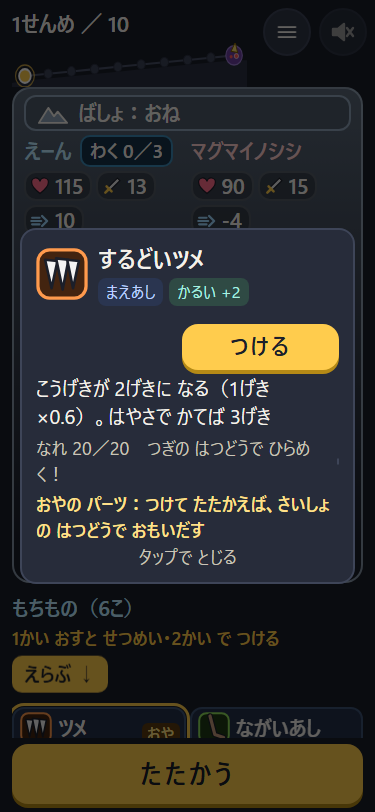
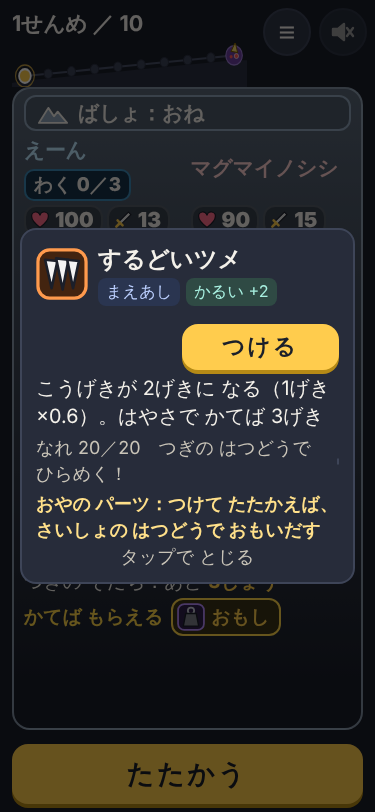
next：画面が 急に 動く を 直す（決定 17-a）：倍率を 窓の 大きさだけで 決めて どの画面も 同じ（1920×910 は 1.25）・同じ画面の 中では 変えない・スマホの バトル前の 行を とっておく。check.js に「急に 動いた」・tools/kotei.js
Claude-Session: https://claude.ai/code/session_01MmzYoSEzkD1PgFfWTrviwe

diff --git a/next/index.html b/next/index.html
@@ -6,10 +6,11 @@
 <meta name="theme-color" content="#1b1f2a">
 <title>でこもん</title>
 <script>
-// 広い窓：画面ごとに「中が スクロールしない いちばん大きい 倍率」で 見せる（版8 しさく 2026-10-27）。
-// - いちばん大きい倍率 zMax = min(幅/1366, 高さ/650)（1366×650 の 見た目を 窓いっぱいに）。1 以下・幅 900 未満（スマホ）・zoom の ない ブラウザは 1（いままでどおり）。
-// - 画面が 変わるたび（show）に zMax から 0.05 ずつ 下げて、中の箱（一覧・列）と ページが スクロールしない 倍率を 選ぶ。1 より 小さくは しない（文字は 1366×650 より 小さくならない）。
-//   例：1920×910 の タイトル・結果は 1.40、パーツを 選ぶ画面は 1.00（中の大きさ 1920×910 で 全部を 並べる）。
+// 広い窓：どの画面も 同じ 倍率で 見せる（2026-10-28 決定 17-a：画面が 急に 動く を 直す）。
+// - いちばん大きい倍率 zMax = min(幅/1366, 高さ/650)。1 以下・幅 900 未満（スマホ）・zoom の ない ブラウザは 1（いままでどおり）。
+// - そろえる倍率 zU = zMax × 0.9 を 0.05 きざみで 切り下げ（1920×910 は 1.25。もちもの 16こ で どの 説明を 出しても 入る 大きさ）。窓の 大きさで 決まり、画面が 変わっても 同じ。
+// - 同じ 画面に いる あいだは 倍率を 変えない（説明の 欄・手札が ふえても 計算しなおさない）。変えるのは 窓の 大きさが 変わったときだけ。
+// - 画面に 入ったとき zU で 入らなければ、そのときだけ 0.05 ずつ 下げる（検査では「倍率が そろわない」と 数える）。1 より 小さくは しない。
 // - zoom の中では vh も 倍になるので --vh で 打ち消す。大きさで 変わる 並び（幅 1700 以上・高さ 760 以下・広い窓）は
 //   窓の大きさではなく 倍率で割った「中の大きさ」で決める（html の class：ew1700・eshort・ewide）。
 (function () {
@@ -17,8 +18,10 @@
   var canZoom = !!(window.CSS && CSS.supports && CSS.supports('zoom', '2')); // zoom の ない ブラウザでは 大きくしない（いままでどおり）
   var BW = 1366, BH = 650;
   var zb = /[?&]zb=(\d+)x(\d+)/.exec(location.search); if (zb) { BW = +zb[1]; BH = +zb[2]; } // 試し用（tools/screens.js --zb）
+  var fitting = false; // 画面に 入った・窓が 変わった ときの 合わせ（それ以外で 倍率が 変わったら 検査で「急に 動いた」）
   function apply(z, noWide) {
     var W = window.innerWidth, H = window.innerHeight;
+    if (!fitting && window.__zoom && window.__zoom !== z) window.__zoomJumps = (window.__zoomJumps || 0) + 1;
     window.__zoom = z;
     de.style.zoom = z === 1 ? '' : String(z);
     if (z === 1) de.style.removeProperty('--vh'); else de.style.setProperty('--vh', (H / z / 100) + 'px');
@@ -39,17 +42,27 @@
     }
     return '';
   }
-  // onlyShrink：画面の中で 中身が ふえたとき（下げるだけ。上げると 文字が 急に 大きくなるので しない）
-  function fit(onlyShrink) {
+  var ZU_K = 0.9;
+  function zUniform() {
     var W = window.innerWidth, H = window.innerHeight;
     var zMax = (canZoom && W >= 900) ? Math.min(W / BW, H / BH) : 1;
-    if (!(zMax > 1.02)) zMax = 1;
-    var z = onlyShrink ? Math.min(window.__zoom || zMax, zMax) : zMax;
+    if (!(zMax > 1.02)) return 1;
+    return Math.max(1, Math.floor(zMax * ZU_K * 20 + 1e-6) / 20);
+  }
+  // inScreen：同じ 画面の 中で 中身が かわった（倍率は 変えない。17-a）。false：画面に 入った・窓の 大きさが 変わった
+  function fit(inScreen) {
+    if (inScreen && window.__zoom) return;
+    fitting = !inScreen;
+    var z = zUniform();
+    window.__zoomU = z;
     apply(z);
     while (z > 1 && document.body && overflows()) { z = Math.max(1, Math.round((z - 0.05) * 100) / 100); apply(z); }
+    // 倍率 1 まで 下げても 入らない 長い 一覧（図鑑・殿堂）は 下げても 意味が ないので、そろえる 倍率に もどす（中で スクロール）
+    if (z !== window.__zoomU && document.body && overflows()) { z = window.__zoomU; apply(z); }
     // 倍率 1 でも 入らないとき（中身が とても 多い・zoom の ない ブラウザ）は 広い並びを やめて、いままでの 2列（中で スクロールできる）に もどす
     var why = document.body && de.classList.contains('ewide') && overflows();
     if (why) { apply(z, true); if (/[?&]auto=1/.test(location.search)) console.warn('[でこもん 検査] 広い並びを やめた：' + why); }
+    fitting = false;
   }
   window.__fitZoom = fit;
   fit();
@@ -982,6 +995,9 @@ html.eshort .shu-info .if-head, html.eshort .shu-info .sub { display: none; }
 .kv-line b { color: var(--accent); }
 .kv-line:empty { display: none; }
 .kv-note { color: var(--accent); font-weight: 700; grid-column: 1 / -1; }
+/* 決定 17-a：スマホは つけた パーツの 文が ここに 出る（1〜3行）。行の 数で 下の もちものが 上下に 動かないように 3行ぶん とっておく */
+@media (max-width: 899px) { #pre .kv-note, #pre .kv-note:empty { display: block; min-height: calc(4.35em + 2px); } }
+@media (max-width: 899px) { #pre #firstTxt { min-height: calc(2.9em + 1px); } } /* 「さきに うごく」は つけた パーツで 1行／2行 に かわる */
 .kv-reward { grid-column: 1 / -1; }
 .kv-handcol { display: flex; flex-direction: column; gap: 5px; min-height: 0; }
 .kv-handhead { display: flex; align-items: baseline; flex-wrap: wrap; gap: 2px 10px; }
@@ -1679,14 +1695,15 @@ html.eshort .shu-info .if-head, html.eshort .shu-info .sub { display: none; }
     document.body.classList.toggle('battle-on', id === 'battle'); // とどめの揺れ（transform）で ページが 数px 伸びないように
     $('menuPop').classList.remove('on'); $('bossPop').classList.remove('on'); $('partPop').classList.remove('on');
     if (id === 'start' || id === 'boss' || id === 'fork' || id === 'summit' || id === 'pre' || id === 'win' || id === 'grow') saveRun(id);
-    window.__fitZoom(false); // 広い窓：この画面が スクロールしない 倍率に
+    window.__fitZoom(false); // 広い窓：そろえる 倍率（入らなければ この画面だけ 下げる）。この画面に いる あいだは 変えない
+    if (OPT.auto && window.__zoom !== window.__zoomU) { G.auto.zoomOdd[id] = (G.auto.zoomOdd[id] || 0) + 1; console.warn('[でこもん 検査] 倍率が そろわない：' + id + '：' + window.__zoom + '（そろえる 倍率 ' + window.__zoomU + '）'); }
   }
 
   // ---------- ゲームの状態 ----------
   var G = { screen: 'title', firstRun: true, rng: null, run: null, owned: [], attached: [], lastParts: null, battle: 0, wins: 0, lv2: [], pity: 0, sparked: [], history: [], lastSummary: null, picked: null,
     egg: null, gen: 1, color: null, // 版8：egg = { parentId, parentName, part }（たまごから 始めたとき）。gen：○だいめ。color：体の色
     nare: {}, grow: S.emptyGrow(), growHist: [], acc: { received: 0, landed: 0, first: 0 }, rewards: [], forkFor: -1, pendingGrow: null, backTo: 'title',
-    auto: { runs: 0, clears: 0, battles: 0, mismatches: 0, wins: 0, synergies: {}, sparks: 0, sparkNare: 0, sparkParent: 0, eggRuns: 0, grows: { tough: 0, strong: 0, quick: 0 }, lv2Used: {}, overlaps: 0, seeThrough: 0, hardB: 0, hardW: 0, bossB: 0, bossW: 0, picked: 0, nareR: 0, pageScroll: {}, innerScroll: {}, screens: {}, doubleFlash: 0, species: {}, waza: {} }, brightChanges: 0 };
+    auto: { runs: 0, clears: 0, battles: 0, mismatches: 0, wins: 0, synergies: {}, sparks: 0, sparkNare: 0, sparkParent: 0, eggRuns: 0, grows: { tough: 0, strong: 0, quick: 0 }, lv2Used: {}, overlaps: 0, seeThrough: 0, hardB: 0, hardW: 0, bossB: 0, bossW: 0, picked: 0, nareR: 0, pageScroll: {}, innerScroll: {}, screens: {}, doubleFlash: 0, species: {}, waza: {}, jumps: {}, zoomOdd: {} }, brightChanges: 0 };
   var seed = OPT.seed ? parseInt(OPT.seed, 10) : (Date.now() ^ (Math.random() * 0xffffffff)) >>> 0;
   G.rng = S.makeRng(seed);
 
@@ -3064,7 +3081,36 @@ html.eshort .shu-info .if-head, html.eshort .shu-info .sub { display: none; }
     }
     A.zooms = A.zooms || {}; A.zooms[sc] = A.zooms[sc] || {}; var zk = (window.__zoom || 1).toFixed(2); A.zooms[sc][zk] = (A.zooms[sc][zk] || 0) + 1; // 画面ごとの 倍率（広い窓）
   }
-  if (OPT.auto) setInterval(function () { try { checkOverlap(); checkScroll(); } catch (e) { console.error('[でこもん 検査] ' + e.message); } }, 100);
+  // 決定 17-a：同じ 画面の 中で 大きさ・位置が 急に 変わった 回数（倍率・並びの class・大きな 箱の 位置と 大きさ）。0 が 合格
+  var JUMP_SEL = '.screen.on .kv-stage, .screen.on .kv-handcol, .screen.on .kv-side, .screen.on .dr-door, .screen.on .pcbody, .screen.on h2, #battle.on #arena';
+  var jumpPrev = null;
+  function checkJump() {
+    var sc = G.screen, A = G.auto, de = document.documentElement;
+    var cur = { sc: sc, z: (window.__zoom || 1).toFixed(2), cls: ['ew1700', 'eshort', 'ewide'].filter(function (c) { return de.classList.contains(c); }).join(' '), boxes: [] };
+    var bs = document.querySelectorAll(JUMP_SEL);
+    for (var i = 0; i < bs.length; i++) { var b = bs[i]; if (!b.offsetParent && b.id !== 'arena') continue; cur.boxes.push([b.id || b.className.split(' ')[0], b.offsetLeft, b.offsetTop, b.offsetWidth]); }
+    // くらべる 相手は その画面に 入って 最初の 様子（少しずつ 動いても 合わせて 数える）。画面が 変わったら 取りなおす
+    var p = jumpPrev; if (!p || p.sc !== sc) jumpPrev = cur;
+    var zj = window.__zoomJumps || 0; window.__zoomJumps = 0;
+    var why = zj ? '倍率を 画面の 中で 計算しなおした ' + zj + '回' : '';
+    if (!why && (!p || p.sc !== sc || $('menuPop').classList.contains('on'))) return;
+    if (why) { /* 上で 決まった */ }
+    else if (p.z !== cur.z) why = '倍率 ' + p.z + '→' + cur.z;
+    else if (p.cls !== cur.cls) why = '並び ' + (p.cls || '-') + '→' + (cur.cls || '-');
+    else if (p.boxes.length === cur.boxes.length) {
+      for (var k = 0; k < cur.boxes.length && !why; k++) {
+        var a = p.boxes[k], c = cur.boxes[k];
+        if (a[0] !== c[0]) break;
+        if (Math.abs(a[1] - c[1]) > 24 || Math.abs(a[2] - c[2]) > 24 || Math.abs(a[3] - c[3]) > 24) why = c[0] + ' ' + a.slice(1).join(',') + '→' + c.slice(1).join(',');
+      }
+    }
+    if (why) {
+      jumpPrev = cur; // 1回 動いたら そこから また くらべる（同じ ずれを 何度も 数えない）
+      A.jumps = A.jumps || {}; if (!A.jumps[sc]) console.warn('[でこもん 検査] 画面が 急に 動いた：' + sc + '：' + why);
+      A.jumps[sc] = (A.jumps[sc] || 0) + 1; A.jumpEx = A.jumpEx || {}; A.jumpEx[sc] = why;
+    }
+  }
+  if (OPT.auto) setInterval(function () { try { checkOverlap(); checkScroll(); checkJump(); } catch (e) { console.error('[でこもん 検査] ' + e.message); } }, 100);
 
   function hitText(ev) {
     var labels = ev.parts.filter(function (p) { return p !== 'weight' || ev.parts.length === 1; }).map(function (p) { return S.PART_BY_ID[p].short; });

diff --git a/next/tools/kotei.js b/next/tools/kotei.js
@@ -1,0 +1,111 @@
+// 決定 17-a の 確かめ：「画面が 急に 動く」が 起きないか（実際の マウス・クリックで）。
+// 使い方：node serve.js 8799 を 動かしてから node tools/kotei.js [port] [大きさ,…]（既定 1920x910,1366x650。PC 用：スマホは 文が 上に 出るので 使わない）
+// やること：
+//  1. どの画面も 同じ 倍率か（タイトル・種類を 選ぶ・始め・ぬし・わかれみち・バトル前・勝ち・そだち・ちょうじょう・クリア・負け・図鑑・殿堂）。
+//  2. バトル前（もちもの 16こ・Lv2 8）で、もちものに マウスを 合わせる・クリックで つける／はずす・相手の 札に 合わせる を 30回 して、
+//     そのたびに 倍率と 大きな 箱（体の 台・手札の 列・相手の 欄）の 位置と 大きさが 変わらないか（24px より 大きい ずれ＝急に 動いた）。
+//  3. わかれみち（もらえるものに 合わせる）も 同じ。
+// 合格：1 で 倍率が 1つ、2・3 で 急に 動いた 0。終わったら ブラウザを 閉じる。
+'use strict';
+const { chromium } = require('playwright');
+const PORT = process.argv[2] || '8799';
+const SIZES = (process.argv[3] || '1920x910,1366x650').split(',').map(s => s.split('x').map(Number));
+
+const ANCHORS = '.screen.on .kv-stage, .screen.on .kv-handcol, .screen.on .kv-side, .screen.on .dr-door, .screen.on h2';
+function snapJs(sel) {
+  const bs = Array.from(document.querySelectorAll(sel)).filter(b => b.offsetParent);
+  return { z: window.__zoom || 1, cls: ['ew1700', 'eshort', 'ewide'].filter(c => document.documentElement.classList.contains(c)).join(' '), boxes: bs.map(b => [b.id || b.className.split(' ')[0], b.offsetLeft, b.offsetTop, b.offsetWidth, b.offsetHeight]) };
+}
+function diff(a, b) {
+  if (a.z !== b.z) return '倍率 ' + a.z + '→' + b.z;
+  if (a.cls !== b.cls) return '並び ' + a.cls + '→' + b.cls;
+  if (a.boxes.length !== b.boxes.length) return '箱の 数 ' + a.boxes.length + '→' + b.boxes.length;
+  for (let i = 0; i < a.boxes.length; i++) {
+    const x = a.boxes[i], y = b.boxes[i];
+    for (let k = 1; k <= 4; k++) if (Math.abs(x[k] - y[k]) > 24) return y[0] + ' ' + x.slice(1).join(',') + '→' + y.slice(1).join(',');
+  }
+  return '';
+}
+
+(async () => {
+  const b = await chromium.launch();
+  let fail = 0;
+  for (const [W, H] of SIZES) {
+    const ctx = await b.newContext({ viewport: { width: W, height: H } });
+    const page = await ctx.newPage(); const errs = []; page.on('pageerror', e => errs.push(e.message));
+    await page.goto('http://localhost:' + PORT + '/?mute=1&seed=7&reset=1');
+    // 1. 画面ごとの 倍率
+    const zs = await page.evaluate(() => {
+      const D = window.__dekomon, G = D.G, S = window.DekoSim, out = {};
+      const rec = n => { out[n] = window.__zoom || 1; };
+      rec('title');
+      D.dbg.openZukan(); rec('zukan'); D.dbg.zukanTab('syn'); rec('zukan(かみあい)');
+      D.dbg.openDendo(); rec('dendo');
+      D.dbg.startRun(); G.run.choices[0] = 0; G.rewards = [];
+      D.dbg.showStart(); rec('start');
+      D.dbg.showBossIntro(); rec('boss');
+      D.dbg.showFork(); rec('fork');
+      D.dbg.showPre(); rec('pre');
+      G.owned = S.PART_IDS.slice(); G.lv2 = ['horn', 'fang', 'claw', 'shell', 'tail', 'wing', 'spike', 'crush'];
+      D.dbg.showFork(); rec('fork(16こ)');
+      D.dbg.showPre(); rec('pre(16こ)');
+      const pth = S.pathOf(G.run, 0, 0), parts = G.owned.slice(0, 3);
+      const res = S.runBattle(parts, pth.enemy, 1, pth.field, { rng: S.makeRng(5), grow: G.grow, lv2: G.lv2, spark: { stage: 1, pity: 0, nare: G.nare } });
+      const e = S.enemyDefOf(pth.enemy), f = S.FIELD_BY_ID[pth.field];
+      G.history.push({ enemy: e, field: f, hard: false, parts: parts, win: true, hands: res.nHands, timeout: res.timeout, summary: res.summary, spark: res.spark });
+      G.lastSummary = { sum: res.summary, enemy: e, spark: res.spark }; G.lastParts = parts.slice(); G.wins = 1; G.battle = 1;
+      D.dbg.showWin(true); rec('win');
+      D.dbg.showOver(); rec('over');
+      G.battle = 0; G.wins = 0;
+      D.dbg.showGrow('strong', true); rec('grow');
+      D.dbg.showSummit(); rec('summit');
+      return { zs: out, zU: window.__zoomU };
+    });
+    const vals = Array.from(new Set(Object.values(zs.zs)));
+    console.log(`### ${W}x${H}：そろえる 倍率 ${zs.zU}`);
+    console.log('画面ごとの 倍率：' + Object.entries(zs.zs).map(([k, v]) => k + ' ' + v).join('、'));
+    const odd = Object.entries(zs.zs).filter(([, v]) => v !== zs.zU).map(([k, v]) => k + ' ' + v);
+    console.log('倍率が そろわない 画面：' + (odd.length ? odd.join('、') : 'なし') + '（倍率の 種類 ' + vals.length + '）');
+    if (W === 1920 && H === 910 && vals.length !== 1) fail++;
+    // 2. バトル前 16こ で 実際に 合わせる・押す
+    await page.evaluate(() => { const D = window.__dekomon; D.dbg.showPre(); });
+    await page.waitForTimeout(150);
+    let prev = await page.evaluate(snapJs, ANCHORS), jumps = [], acts = 0, inner = [];
+    const ids = await page.evaluate(() => Array.from(document.querySelectorAll('#plist .kv-card')).map(c => c.dataset.id));
+    const step = async (what, fn) => {
+      await fn(); await page.waitForTimeout(80); acts++;
+      const cur = await page.evaluate(snapJs, ANCHORS); const d = diff(prev, cur);
+      if (d) jumps.push(what + '：' + d); prev = cur;
+      if (W === 1920 && H === 910) { // 1920×910 は 中の スクロールも 0（決定 9）。説明の 欄を 出した ときも
+        const ov = await page.evaluate(() => Array.from(document.querySelectorAll(window.__SCROLL_BOXES)).filter(b => b.clientHeight > 0 && b.scrollHeight > b.clientHeight + 1).map(b => (b.id || b.className.split(' ')[0]) + ' ' + b.clientHeight + '/' + b.scrollHeight).join(','));
+        if (ov) inner.push(what + '：' + ov);
+      }
+    };
+    for (let i = 0; i < ids.length && acts < 24; i++) {
+      const sel = `#plist .kv-card[data-id="${ids[i]}"]`;
+      await step('合わせる ' + ids[i], () => page.hover(sel));
+      if (i % 3 === 0) await step('クリック ' + ids[i], () => page.click(sel));
+    }
+    for (const id of ids.slice(0, 6)) await step('はずす／つける ' + id, () => page.click(`#plist .kv-card[data-id="${id}"]`));
+    const chips = await page.$$('#eChips > *');
+    for (let i = 0; i < Math.min(chips.length, 4); i++) await step('相手の 札 ' + i, () => chips[i].hover());
+    await step('マウスを 外す', () => page.mouse.move(3, 3));
+    console.log(`バトル前：${acts}回 さわって、急に 動いた ${jumps.length}` + (jumps.length ? '：' + jumps.slice(0, 5).join(' ／ ') : ''));
+    if (jumps.length) fail++;
+    if (inner.length) { console.log('中の スクロール（1920×910）' + inner.length + '：' + inner.slice(0, 5).join(' ／ ')); fail++; }
+    // 3. わかれみち
+    await page.evaluate(() => window.__dekomon.dbg.showFork()); await page.waitForTimeout(150);
+    prev = await page.evaluate(snapJs, ANCHORS); jumps = []; acts = 0; inner = [];
+    const fchips = await page.$$('#forkPaths .kv-chip, #forkPaths .kv-st, #forkPaths .kv-rwb');
+    for (let i = 0; i < Math.min(fchips.length, 12); i++) await step('わかれみちの 札 ' + i, () => fchips[i].hover());
+    await step('マウスを 外す', () => page.mouse.move(3, 3));
+    console.log(`わかれみち：${acts}回 さわって、急に 動いた ${jumps.length}` + (jumps.length ? '：' + jumps.slice(0, 5).join(' ／ ') : ''));
+    if (jumps.length) fail++;
+    if (inner.length) { console.log('中の スクロール（1920×910）' + inner.length + '：' + inner.slice(0, 5).join(' ／ ')); fail++; }
+    if (errs.length) { console.log('エラー：' + errs.join(' ／ ')); fail++; }
+    console.log('');
+    await ctx.close();
+  }
+  await b.close();
+  console.log(fail ? '不合格' : '合格'); process.exitCode = fail ? 1 : 0;
+})();

diff --git a/next/tools/check.js b/next/tools/check.js
@@ -70,12 +70,12 @@ function fmtObj(o) { var ks = Object.keys(o || {}); return ks.length ? ks.map(fu
     await browser.close();
     sv.kill();
   }
-  console.log('| 画面 | 大きさ（窓の内側） | 周回 | 戦い | 10連勝 | たまご周回 | おやの ひらめき | ずれ | 重なり・はみ出し | 透け | 1手に2回の明るさ | ページがスクロールした画面 | 中でスクロールした画面（回数） |');
-  console.log('|---|---|---|---|---|---|---|---|---|---|---|---|---|');
+  console.log('| 画面 | 大きさ（窓の内側） | 周回 | 戦い | 10連勝 | たまご周回 | おやの ひらめき | ずれ | 重なり・はみ出し | 透け | 1手に2回の明るさ | ページがスクロールした画面 | 中でスクロールした画面（回数） | 同じ画面で急に動いた（回数） | 倍率がそろわない画面 |');
+  console.log('|---|---|---|---|---|---|---|---|---|---|---|---|---|---|---|');
   rows.forEach(function (r) {
     var A = r.a.auto;
     var kind = r.size.w >= 900 ? 'PC' : 'スマホ';
-    console.log('| ' + kind + ' ' + r.size.w + '×' + r.size.h + '（seed ' + r.seed + '〜） | ' + r.a.inner + ' | ' + A.runs + ' | ' + A.battles + ' | ' + A.clears + ' | ' + A.eggRuns + ' | ' + A.sparkParent + ' | ' + A.mismatches + ' | ' + A.overlaps + ' | ' + A.seeThrough + ' | ' + A.doubleFlash + ' | ' + fmtObj(A.pageScroll) + ' | ' + fmtObj(A.innerScroll) + ' |');
+    console.log('| ' + kind + ' ' + r.size.w + '×' + r.size.h + '（seed ' + r.seed + '〜） | ' + r.a.inner + ' | ' + A.runs + ' | ' + A.battles + ' | ' + A.clears + ' | ' + A.eggRuns + ' | ' + A.sparkParent + ' | ' + A.mismatches + ' | ' + A.overlaps + ' | ' + A.seeThrough + ' | ' + A.doubleFlash + ' | ' + fmtObj(A.pageScroll) + ' | ' + fmtObj(A.innerScroll) + ' | ' + fmtObj(A.jumps) + ' | ' + fmtObj(A.zoomOdd) + ' |');
   });
   console.log('');
   rows.forEach(function (r) {
@@ -101,6 +101,13 @@ function fmtObj(o) { var ks = Object.keys(o || {}); return ks.length ? ks.map(fu
     var key = r.size.w + 'x' + r.size.h; if (INNER0.indexOf(key) < 0) return;
     var n = Object.keys(r.a.auto.innerScroll).reduce(function (a, k) { return a + r.a.auto.innerScroll[k]; }, 0);
     console.log('判定 ' + key + '：中のスクロール ' + n + ' → ' + (n === 0 ? '合格' : '不合格（' + fmtObj(r.a.auto.innerScroll) + '）'));
+    if (n) fail++;
+  });
+  // 決定 17-a：同じ 画面の 中で 急に 動いた 回数は どの大きさも 0 が 合格
+  rows.forEach(function (r) {
+    var key = r.size.w + 'x' + r.size.h, J = r.a.auto.jumps || {};
+    var n = Object.keys(J).reduce(function (a, k) { return a + J[k]; }, 0);
+    console.log('判定 ' + key + '：同じ画面で 急に 動いた ' + n + ' → ' + (n === 0 ? '合格' : '不合格（' + fmtObj(J) + '。例：' + fmtObj(r.a.auto.jumpEx) + '）'));
     if (n) fail++;
   });
   if (fail) process.exitCode = 1;

diff --git a/next/REPORT.md b/next/REPORT.md
@@ -4,6 +4,12 @@ https://usouso.github.io/dekomon/next/ ／ 安定版の報告は いちばん上
 
 ## きょう変わったこと（前の20時から）
 
+- 広い画面（PC 1920×910 など）で、画面の 大きさが 急に 変わる・パーツに マウスを 合わせると 画面が ちぢむ のを 直した。どの画面も 同じ 大きさ（前より 1割ほど 小さめ）で、同じ画面に いる あいだは 変わらない。スマホの バトル前で、パーツを つけると もちものが 下へ ずれるのも 直した（ぼくくんの 感想 17-a）。
+
+## これまで
+
+### 2026-10-26 20時〜10-27 20時
+
 - おおぐい（すいつくくちの Lv2）：あいてを たおすたびに たいりょくの 上限が +6 ふえて、その しゅうかいの あいだ ずっと残るようになった（+30 まで）。たおした瞬間に 体力バーが のびて「おおぐい 上限 ○」、勝ちの画面に「おおぐい：上限 +6」。（はじめ +4／+24 だったのを、ぼくくんの 答え B で +6／+30 に した）
 - 広い画面（PC の Chrome 1920×910 など）で、全体が 窓いっぱいに 大きく表示されるようにした（文字・絵・ボタンが 1366×650 のときと 同じ並びのまま 約1.4倍）。1366×650 と スマホの 見た目は 変えていない。
 - 広い画面で、パーツを選ぶ画面などが スクロールせずに 全部見えるようにした。
@@ -18,9 +24,23 @@ https://usouso.github.io/dekomon/next/ ／ 安定版の報告は いちばん上
 - 戦いで ころんの 体が 光ったとき、体力の 下に「ふんばり つぎの手 ×2」と 出るようにした（光の 意味が 分かる）。でんどうの 子の カードに「しゅるい：ごつん　わざ：かみつきかえし・ひといき」を 出す。もちものの ◎✕ は 選んだ 種類の はやさで 見るようにした（ぴゅんは はやいので「おそい あいて」の ◎ が 出やすい）。
 - （前の回）モンスターの 種類（ころん・ごつん・ぴゅん・どしん）と、種類ごとの 技 2つの 仕組みを ゲームの 中に 作った。つぎの回から 周回の始めに 選ぶ画面と、戦いで 技が 出る 見せ方を 作る。（参考：ドラクエモンスターズ・モンスターファーム・Super Auto Pets・Back to the Dawn）
 
-## これまで
 
-（まだ なし）
+---
+
+## 2026-10-28 3時の回（自動）：画面が 急に 動く を 直した（ぼくくんの 感想 17-a）
+
+- **何が 起きていたか**（確かめた）：広い窓では 全体を 拡大（CSS の zoom）していて、倍率を 画面ごとに 選び、さらに 同じ画面の 中でも 中身が ふえると 下げ直していた。1920×910 では タイトル・わかれみち 1.40、バトル前・種類を 選ぶ・まけ 1.35、もちもの 16こで 説明を 出すと 1.30。とくに **バトル前で パーツに マウスを 合わせた 瞬間に 1.35→1.30**、**わかれみちで 札に 合わせた 瞬間に 1.40→1.30** と 画面ぜんたいが ちぢんでいた（tools/kotei.js で 前の 版を 動かして 再現）。
+- **直し方**（見せ方だけ。ルール・数字・札の文・保存は 変えていない）：
+  - 倍率は 窓の 大きさだけで 決める（いちばん大きい 倍率 × 0.9 を 0.05 きざみで 切り下げ。1920×910 は **1.25**、2560×1440 は 1.65、1366×650・スマホは 1 の まま）。どの画面も 同じ 倍率。
+  - 同じ画面に いる あいだは 倍率を 変えない（変えるのは 窓の 大きさが 変わったとき だけ）。画面に 入ったとき 入りきらなければ その画面だけ 下げる（1920×910 では どの画面も 下げずに 入った）。1 まで 下げても 入らない 長い 一覧（図鑑・殿堂）は 下げずに 中で スクロール。
+  - スマホの バトル前：パーツを つけると 下に 出る 効き目の 文（1〜3行）と「さきに うごく」（1〜2行）の 行の 数で、もちものの 列が 上下に 27〜84px ずれていた → 行の 高さを とっておく。
+  - 前より 文字が 1割ほど 小さい（1.40→1.25）。もちもの 16こで どの 説明を 出しても 切れない 大きさ（1.30 では 7つの パーツの 説明が 1行 切れた）。空いた 広さは 23 の 作り直しで 並べ方に 使う。
+- **検査を 足した**：
+  - check.js の 表に「同じ画面で 急に 動いた（回数）」「倍率が そろわない 画面」。同じ画面の 中で 倍率・並び・大きな 箱（体の 台・手札の 列・相手の 欄・扉）の 位置と 幅が 24px より 大きく 変わったら 数える（その画面に 入ったときと くらべる）。どの 大きさも 0 が 合格。
+  - tools/kotei.js：実際の マウスで バトル前（もちもの 16こ・Lv2 8）に 33回・わかれみちに 13回 さわり、倍率・箱の 位置・1920×910 の 中の スクロールを 見る。どの画面も 同じ 倍率かも 見る（14画面）。
+- **確かめ**：tests 156/156。ボット（短い回）は sim.js を 変えていないので 前と 同じ。kotei.js（1920×910・1366×650・2560×1440）：急に 動いた 0、1920×910 は 14画面 すべて 1.25。check.js の 結果は STATE の「テストの結果」。
+- **残り**：図鑑（パーツ）・殿堂は 1920×910 で 中が スクロールする（前から。倍率 1 でも 入らなかった）。2560×1440 では 図鑑だけ 1.35 に 下がる。→ 23 の 図鑑の 作り直しで 並べ方を 変える。
+- 参考の ゲーム：なし（不具合の 直し）。
 
 ---
 

diff --git a/auto/IDEAS.md b/auto/IDEAS.md
@@ -22,6 +22,13 @@
 - 手間：中／原則：4・6／状態：案
 
 ## 見た目・不具合
+### 画面が 急に 動く（決定 17-a）
+- 面白さの理由：見守りの 画面が 勝手に ちぢむと 落ちつかない（原則 2・7）。
+- 直し方：倍率を 窓の 大きさだけで 決めて どの画面も 同じ（1920×910 は 1.25）。同じ画面の 中では 変えない。スマホの バトル前は 文の 行を とっておく。check.js に「急に 動いた」・tools/kotei.js。
+- 手間：小〜中／原則：2・7／状態：採用（2026-10-28 3時の回）
+### 図鑑・殿堂の 中の スクロール（1920×910）
+- 前から。倍率 1 でも 入らない。23 の 図鑑・殿堂の 作り直しで 並べ方（列を ふやす・ページに 分ける）を 変えて 0 に。2560×1440 で 図鑑だけ 倍率が 下がるのも ここで。
+- 手間：中／原則：9（広い画面）／状態：案（23 の 最後の 画面）
 ### ぬし戦の「みつけた！」の重なり
 - 状態：次（STATE の「次」1）
 
